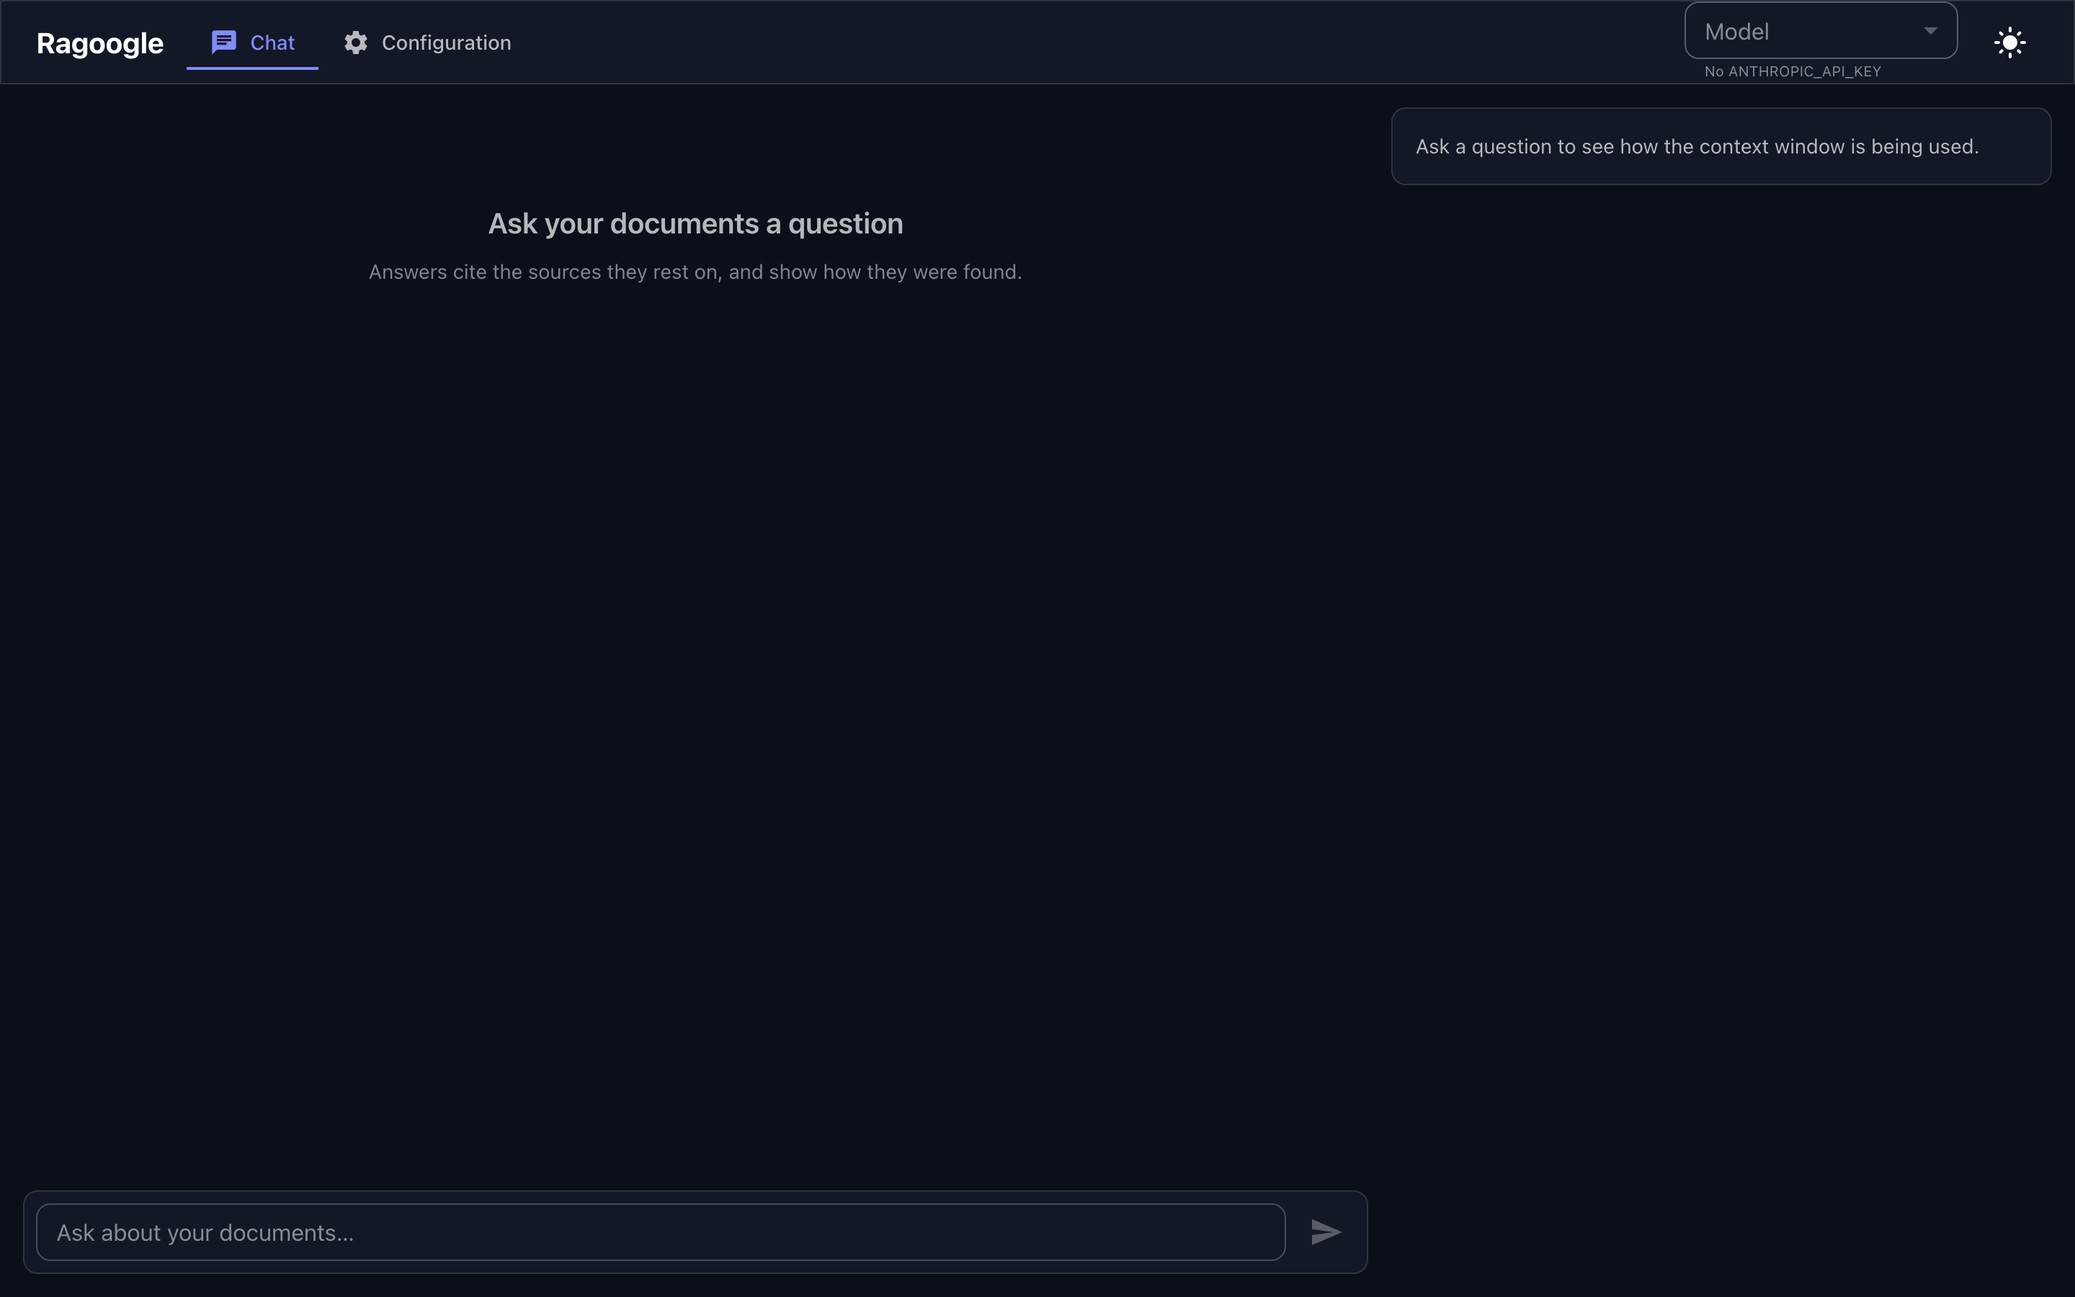
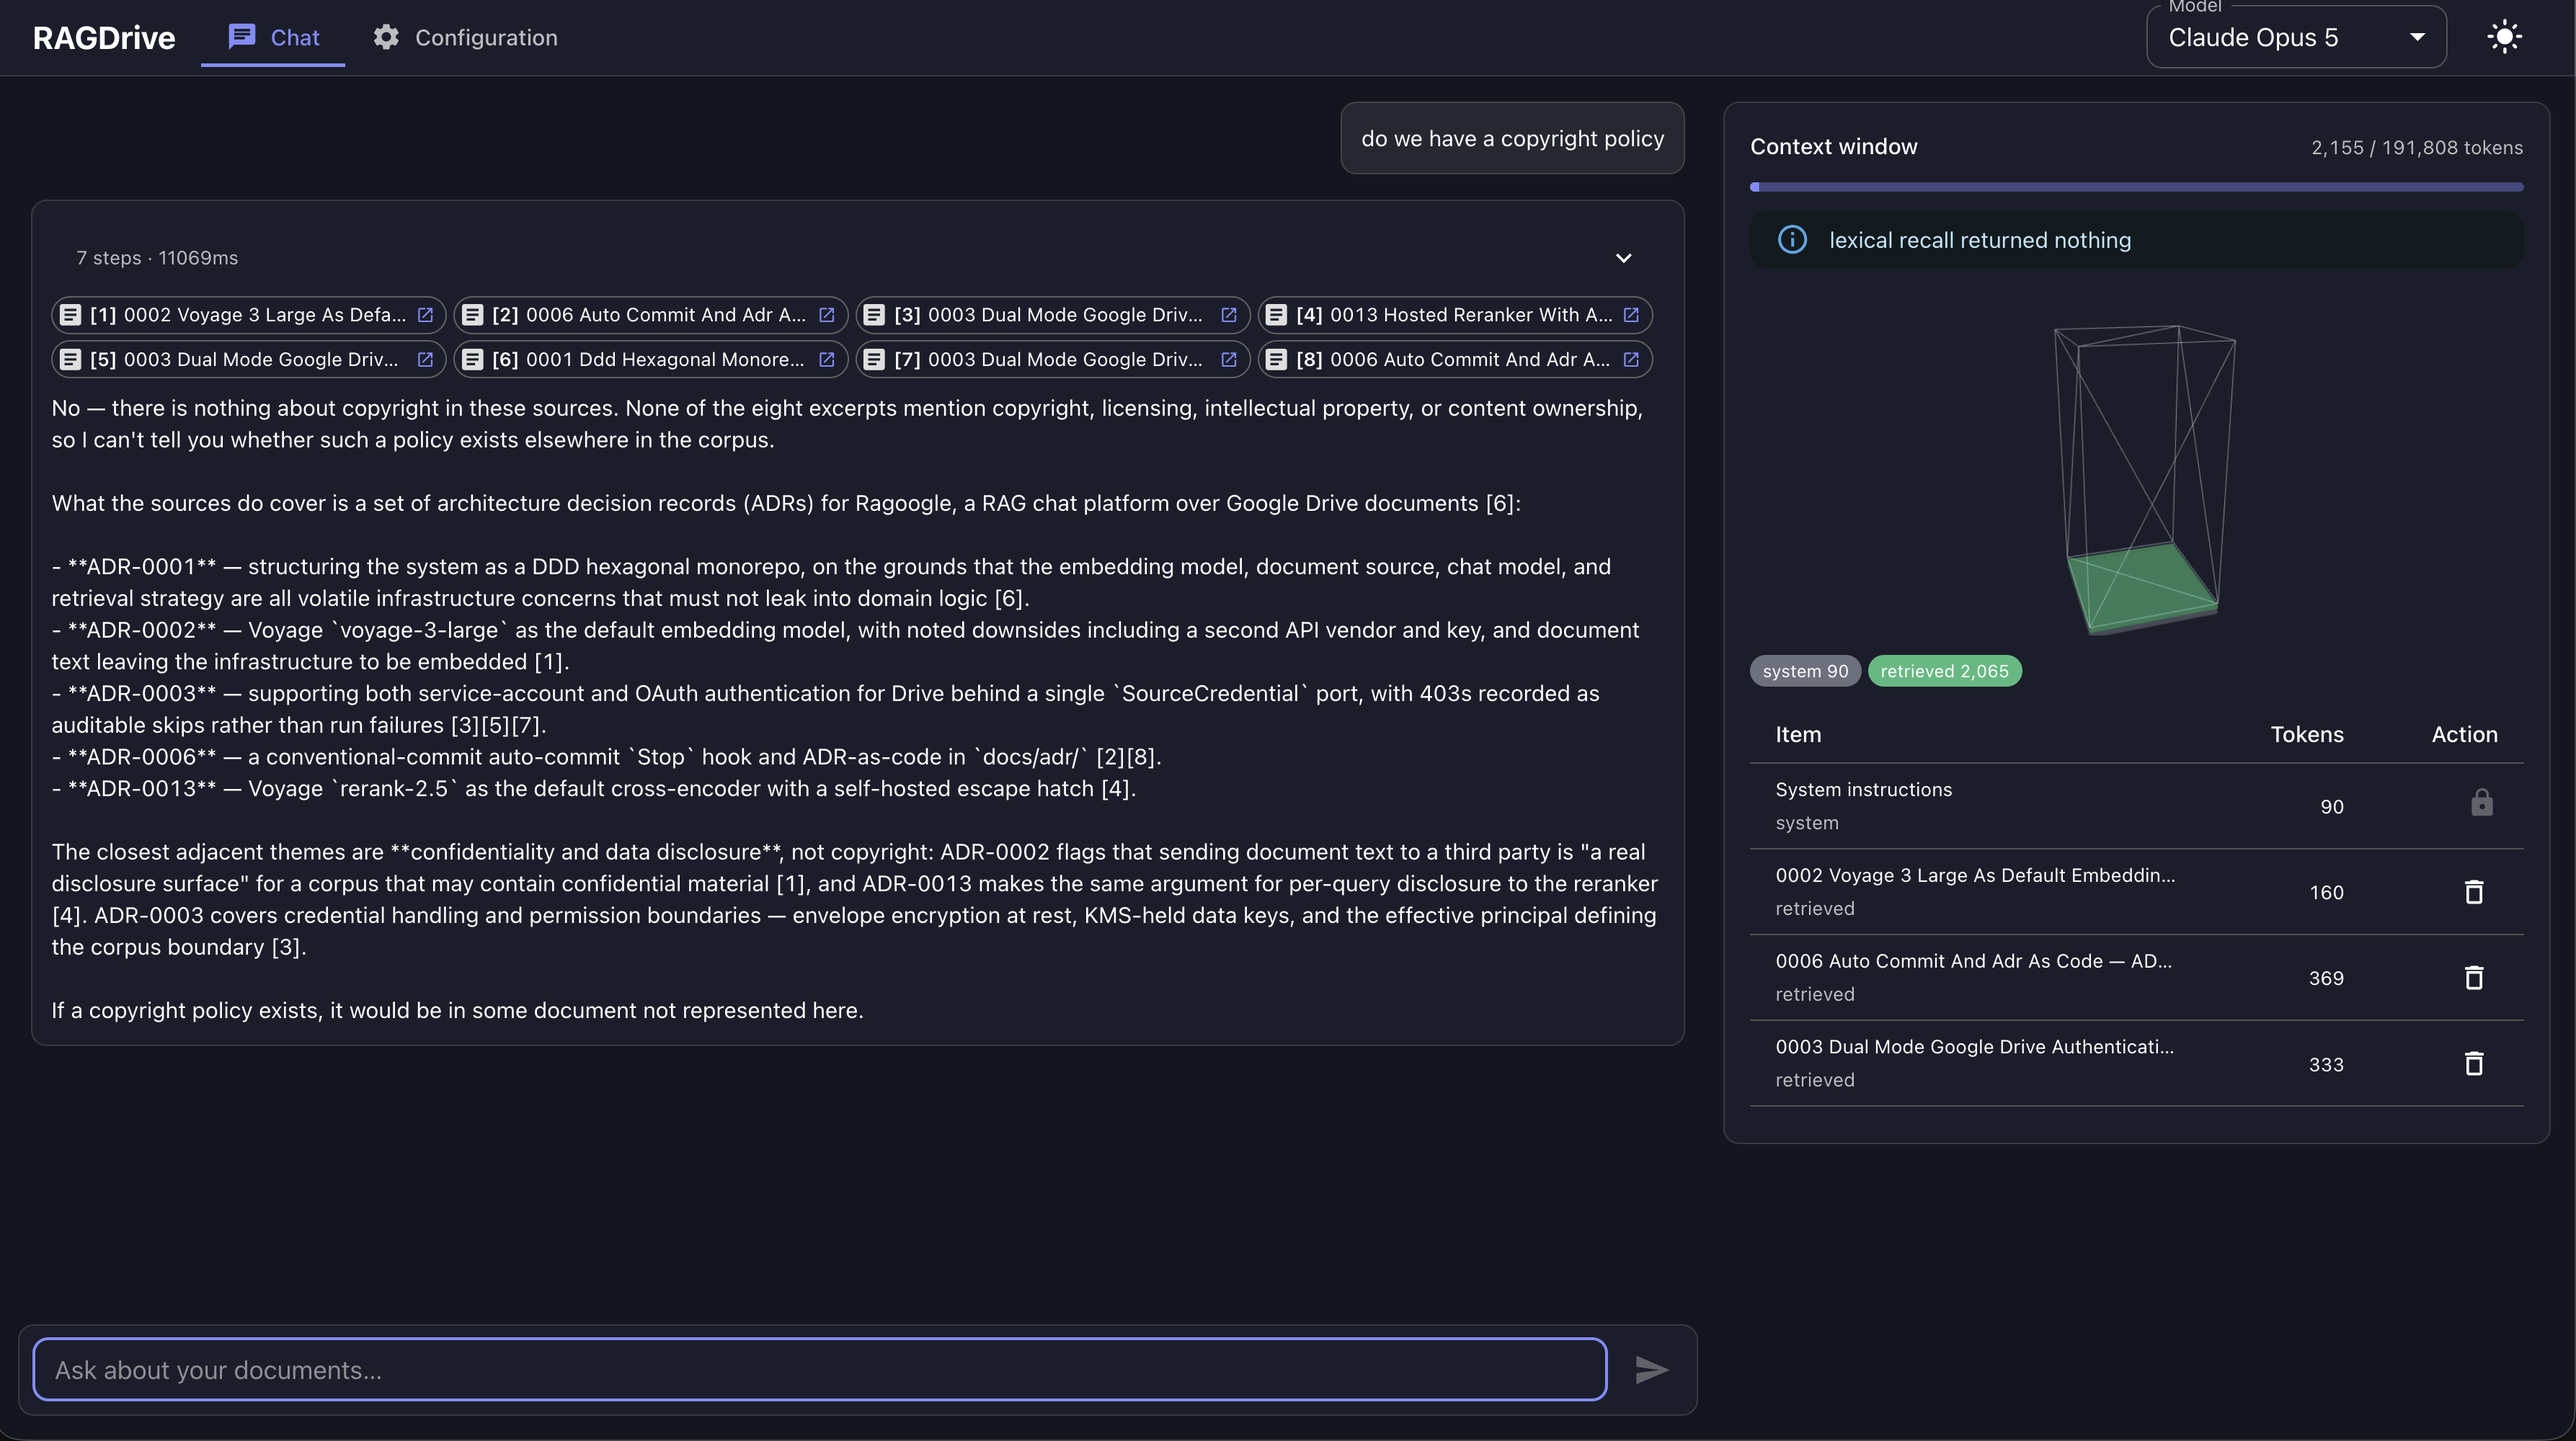
feat(api,frontend): ping the frontends for real topology state, taller header
Two changes, unrelated except both came from someone actually looking at the
running app.

Topology (ADR-0006): the frontend and observability nodes always showed
"unknown," permanently, because the API genuinely had no way to know -- it
never tried to find out. It now does: GET the root of each web server through
the docker-compose network (RAGOOGLE_FRONTEND_URL / RAGOOGLE_OBSERVABILITY_URL,
defaulting to the compose service DNS names) and report ok/down from the real
response, same standard `vectorstore` is already held to -- is the thing there,
not is a human looking at it. An unconfigured URL still reports unknown rather
than guessing, which is the honest answer when the API was never told where to
look. Both pings run concurrently (asyncio.gather), since the topology view
polls every few seconds and two sequential round-trips would double the API's
contribution to that budget for no reason.

httpx moves from a transitive dependency (pulled in by something else) to an
explicit one, since the API now imports it directly.

15 new tests: the ping helper against a stub transport covering unconfigured,
reachable, non-2xx, connection failure and timeout, plus one that a 3xx is
correctly NOT treated as success -- a health probe redirected to e.g. a login
page shouldn't silently read as "the server is fine." The existing API test
fixture disables both pings (a hermetic unit test has no business making a real
[…]

diff --git a/apps/frontend/src/App.tsx b/apps/frontend/src/App.tsx
@@ -49,7 +49,9 @@ export const App = () => {
       <CssBaseline />
       <Box sx={{ height: '100vh', display: 'flex', flexDirection: 'column' }}>
         <AppBar position="static" color="default" variant="outlined" elevation={0}>
-          <Toolbar variant="dense" sx={{ gap: 2 }}>
+          {/* dense is 48px; 50% taller is 72px, set explicitly rather than
+              relying on a variant whose baseline could change under us. */}
+          <Toolbar variant="dense" sx={{ gap: 2, minHeight: 72 }}>
             <Typography variant="h6" sx={{ fontWeight: 700 }}>
               RAGDrive
             </Typography>

diff --git a/apps/api/src/ragoogle_api/routers/health.py b/apps/api/src/ragoogle_api/routers/health.py
@@ -7,6 +7,7 @@ must stay cheap enough to poll on a short interval.
 
 from __future__ import annotations
 
+import asyncio
 import json
 import time
 from dataclasses import dataclass
@@ -14,6 +15,7 @@ from datetime import UTC, datetime
 from pathlib import Path
 from typing import Literal
 
+import httpx
 from fastapi import APIRouter
 from sqlalchemy import text
 
@@ -38,6 +40,12 @@ class NodeSpec:
     kind: NodeKind
     depends_on: tuple[str, ...] = ()
 
+
+#: How long a ping may take before the node is reported down. Short on purpose:
+#: the topology view polls every few seconds (ADR-0006's docstring above), and a
+#: slow frontend should read as "down", not stall the poll that is supposed to
+#: report it.
+PING_TIMEOUT_SECONDS = 2.0
 
 #: Node ids match the `component` vocabulary in tools/adr/adr.py, which is what
 #: lets a decision be rendered against the node it constrains (ADR-0006).
@@ -98,16 +106,31 @@ async def topology(container: ContainerDep) -> TopologyResponse:
     current = await health(container)
     adrs = _adrs_by_component()
 
+    async with httpx.AsyncClient() as client:
+        # Concurrently: two sequential pings would double the API's own worst
+        # case latency for a poll that is supposed to run every few seconds.
+        frontend_ping, observability_ping = await asyncio.gather(
+            _ping(client, container.settings.frontend_url),
+            _ping(client, container.settings.observability_url),
+        )
+
+    pings = {"frontend": frontend_ping, "observability": observability_ping}
+
     nodes = []
     for spec in TOPOLOGY:
         node_id = spec.id
+        latency: float | None = None
         if node_id == "vectorstore":
             state = "ok" if current.checks.get("database") == "ok" else "down"
         elif node_id in ("api", "rag-core", "ingestion"):
             state = current.status
+            if node_id == "api":
+                latency = current.latency_ms
+        elif node_id in pings:
+            state, latency = pings[node_id]
         else:
-            # The frontends and external vendors report their own state; the API
-            # cannot honestly claim to know it.
+            # No configured way to reach this one (e.g. the external vendors):
+            # unknown rather than a guessed status.
             state = "unknown"
         nodes.append(
             ComponentNode(
@@ -115,12 +138,31 @@ async def topology(container: ContainerDep) -> TopologyResponse:
                 label=spec.label,
                 kind=spec.kind,
                 status=state,  # type: ignore[arg-type]
-                latency_ms=current.latency_ms if node_id == "api" else None,
+                latency_ms=latency,
                 depends_on=list(spec.depends_on),
                 adr_refs=adrs.get(node_id, []),
             )
         )
     return TopologyResponse(nodes=nodes, generated_at=datetime.now(UTC))
+
+
+async def _ping(client: httpx.AsyncClient, url: str | None) -> tuple[str, float | None]:
+    """Check that a frontend's own web server answers.
+
+    Not a claim that a human has the page open in a browser -- only that the
+    static server behind it is reachable, which is the same standard
+    `vectorstore` is held to: is the thing there, not is someone looking at it.
+    An unconfigured URL stays `unknown` rather than guessing.
+    """
+    if not url:
+        return "unknown", None
+    started = time.perf_counter()
+    try:
+        response = await client.get(url, timeout=PING_TIMEOUT_SECONDS)
+    except httpx.HTTPError:
+        return "down", None
+    latency = round((time.perf_counter() - started) * 1000, 2)
+    return ("ok" if response.is_success else "down"), latency
 
 
 def _adrs_by_component() -> dict[str, list[str]]:

diff --git a/tests/test_topology_ping.py b/tests/test_topology_ping.py
@@ -1,0 +1,84 @@
+"""The observability ping (ADR-0006): frontend/observability liveness.
+
+The API cannot know whether a human has a browser tab open, but it can and
+does check whether the frontend's own web server answers -- the same standard
+`vectorstore` is held to. These test that logic in isolation from HTTP.
+"""
+
+from __future__ import annotations
+
+import httpx
+import pytest
+
+from ragoogle_api.routers.health import _ping
+
+
+class _StubTransport(httpx.AsyncBaseTransport):
+    """A transport that returns a fixed status, or raises a connection error."""
+
+    def __init__(self, status_code: int | None = None) -> None:
+        self.status_code = status_code
+
+    async def handle_async_request(self, request: httpx.Request) -> httpx.Response:
+        if self.status_code is None:
+            raise httpx.ConnectError("connection refused", request=request)
+        return httpx.Response(self.status_code, request=request)
+
+
+def client_for(status_code: int | None) -> httpx.AsyncClient:
+    return httpx.AsyncClient(transport=_StubTransport(status_code))
+
+
+async def test_an_unconfigured_url_is_unknown_not_guessed():
+    async with client_for(200) as client:
+        state, latency = await _ping(client, None)
+    assert state == "unknown"
+    assert latency is None
+
+
+async def test_a_reachable_server_is_ok():
+    async with client_for(200) as client:
+        state, latency = await _ping(client, "http://frontend")
+    assert state == "ok"
+    assert latency is not None
+    assert latency >= 0
+
+
+async def test_a_non_2xx_response_is_down_not_unknown():
+    """We tried and got an answer -- 'unknown' would understate what we know."""
+    async with client_for(503) as client:
+        state, _ = await _ping(client, "http://frontend")
+    assert state == "down"
+
+
+async def test_a_connection_failure_is_down():
+    async with client_for(None) as client:
+        state, latency = await _ping(client, "http://frontend")
+    assert state == "down"
+    assert latency is None
+
+
+@pytest.mark.parametrize("status_code", [200, 204, 201])
+async def test_success_covers_the_2xx_range(status_code):
+    async with client_for(status_code) as client:
+        state, _ = await _ping(client, "http://frontend")
+    assert state == "ok"
+
+
+async def test_a_redirect_is_not_treated_as_success():
+    """Not followed, and not silently accepted -- a health probe redirected to
+    e.g. a login page would otherwise report a misconfigured server as ok."""
+    async with client_for(301) as client:
+        state, _ = await _ping(client, "http://frontend")
+    assert state == "down"
+
+
+async def test_a_slow_server_times_out_as_down():
+    class _SlowTransport(httpx.AsyncBaseTransport):
+        async def handle_async_request(self, request: httpx.Request) -> httpx.Response:
+            raise httpx.TimeoutException("timed out", request=request)
+
+    async with httpx.AsyncClient(transport=_SlowTransport()) as client:
+        state, latency = await _ping(client, "http://frontend")
+    assert state == "down"
+    assert latency is None

diff --git a/tests/test_api.py b/tests/test_api.py
@@ -170,7 +170,10 @@ def client(request):
     asyncio.run(_seed(store, embeddings, chunks))
 
     container = Container(
-        settings=Settings(),
+        # Ping URLs disabled: pinging real container-network DNS names has no
+        # place in a hermetic unit test. The ping logic itself is covered by
+        # test_topology_ping.py against a stub transport.
+        settings=Settings(frontend_url=None, observability_url=None),
         engine=FakeEngine(healthy),  # type: ignore[arg-type]
         embeddings=embeddings,
         store=store,
@@ -243,6 +246,16 @@ def test_a_down_datastore_shows_as_down_in_the_topology(client):
     body = client.get("/topology").json()
     store_node = next(n for n in body["nodes"] if n["id"] == "vectorstore")
     assert store_node["status"] == "down"
+
+
+def test_an_unconfigured_frontend_url_is_unknown_not_a_guess(client):
+    """ADR-0006: the API pings the frontends' own servers rather than assuming
+    a status it has not actually checked."""
+    body = client.get("/topology").json()
+    for node_id in ("frontend", "observability"):
+        node = next(n for n in body["nodes"] if n["id"] == node_id)
+        assert node["status"] == "unknown"
+        assert node["latency_ms"] is None
 
 
 # -- sources --------------------------------------------------------------

diff --git a/apps/api/src/ragoogle_api/settings.py b/apps/api/src/ragoogle_api/settings.py
@@ -45,6 +45,13 @@ class Settings(BaseSettings):
     otel_endpoint: str | None = None
     log_level: str = "INFO"
 
+    # ADR-0006: the topology app polls these to ping the frontends' own web
+    # servers. Defaults match the docker-compose service DNS names; unset
+    # (empty) means "don't probe" -- the node shows unknown rather than a
+    # guessed status, honest about not having checked.
+    frontend_url: str | None = "http://frontend"
+    observability_url: str | None = "http://observability"
+
     @property
     def cors_origin_list(self) -> list[str]:
         return [o.strip() for o in self.cors_origins.split(",") if o.strip()]
